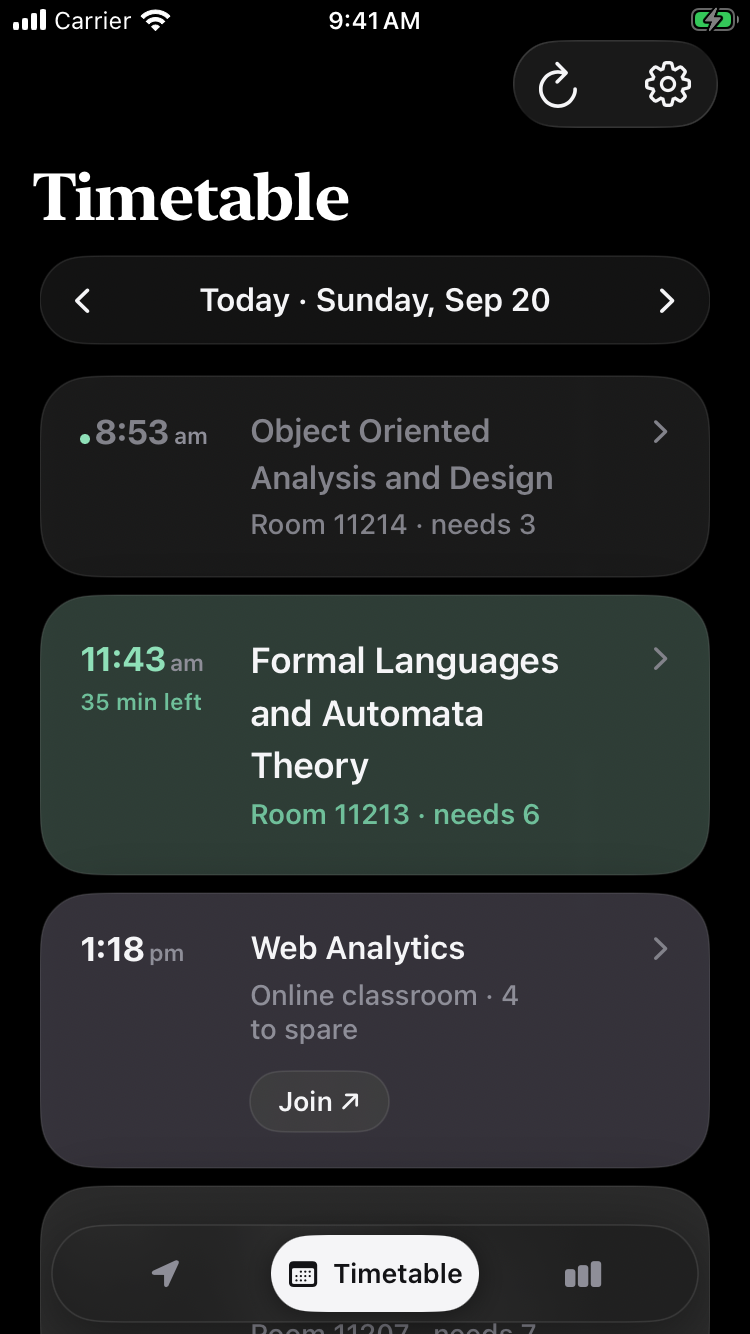
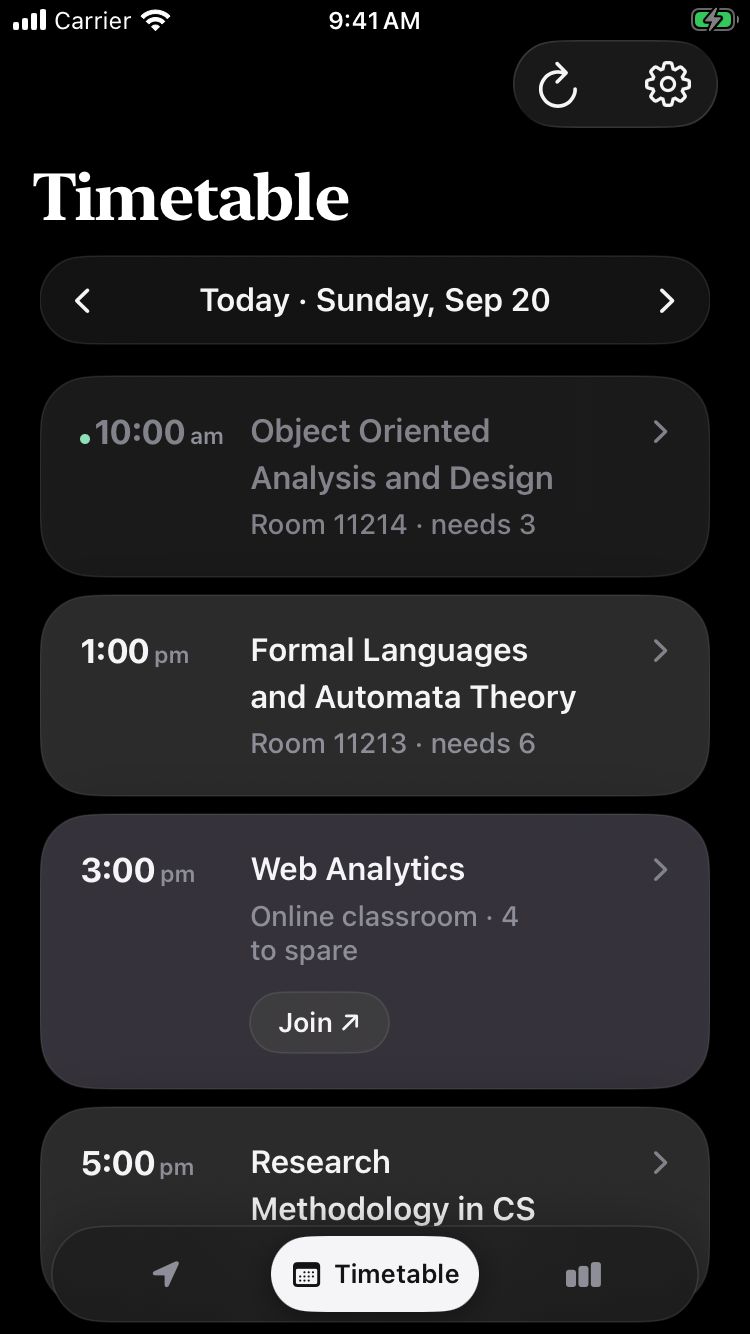
One shelf for the day strip, and a fixture that knows what time it is
The strip is pinned over the content now, and four separate pieces of glass
let the card behind it read straight through the gaps. One shelf.

date(bySetting:) searches forward for the next date matching the component,
so the fixture asking for minute 0 at 12:17 got 13:00 - and the class that
was meant to be live was an hour away.

diff --git a/App/Demo.swift b/App/Demo.swift
@@ -49,9 +49,12 @@
         /// Whole hours either side of this one, so a screenshot shows "11:00"
         /// rather than whatever minute the runner happened to be on.
         private static func at(_ hours: Int, _ minute: Int, from now: Date) -> String {
-            let top = cal.date(bySetting: .minute, value: 0, of: now) ?? now
+            // date(bySetting:) searches *forward* for the next date matching
+            // the component, so asking for minute 0 at 12:17 hands back 13:00
+            // and the class that was meant to be live is an hour away.
+            let top = cal.date(from: cal.dateComponents([.year, .month, .day, .hour], from: now)) ?? now
             let t = cal.date(byAdding: .hour, value: hours, to: top) ?? now
-            return clock.string(from: cal.date(bySetting: .minute, value: minute, of: t) ?? t)
+            return clock.string(from: t.addingTimeInterval(TimeInterval(minute * 60)))
         }
 
         /// Six subjects: one comfortably clear, two behind, one that gates the
@@ -189,6 +192,12 @@
                     DaySession(
                         subject: "Formal Languages and Automata Theory", date: iso,
                         time: "09:00 - 09:55", present: d % 4 != 0
+                    )
+                )
+                out.append(
+                    DaySession(
+                        subject: "Probability, Entropy, and MC Simulation", date: iso,
+                        time: "14:00 - 14:55", present: d % 5 != 0
                     )
                 )
             }

diff --git a/App/Views/TodayView.swift b/App/Views/TodayView.swift
@@ -392,6 +392,14 @@ private struct DayStrip: View {
                 )
             }
         }
+        // One shelf, not four floating chips. The strip is pinned over the
+        // content now, and four separate pieces of glass let whatever is
+        // behind it read straight through the gaps between them.
+        .padding(5)
+        .glassy(
+            RoundedRectangle(cornerRadius: 26, style: .continuous),
+            tint: .well, material: .ultraThinMaterial
+        )
         // Pinning a class is a selection, not a commit.
         .sensoryFeedback(.selection, trigger: picked)
     }
